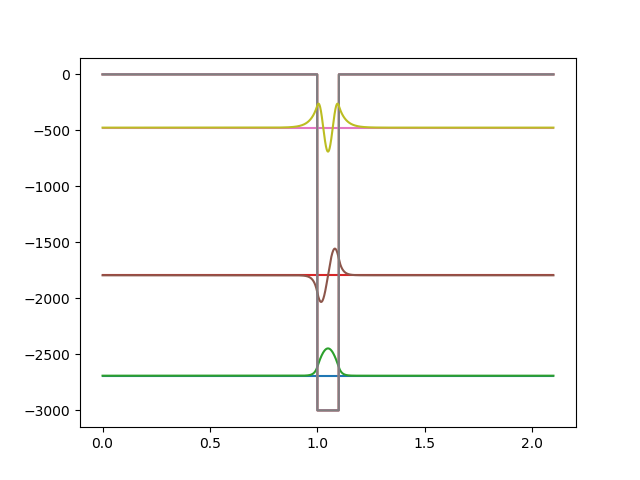
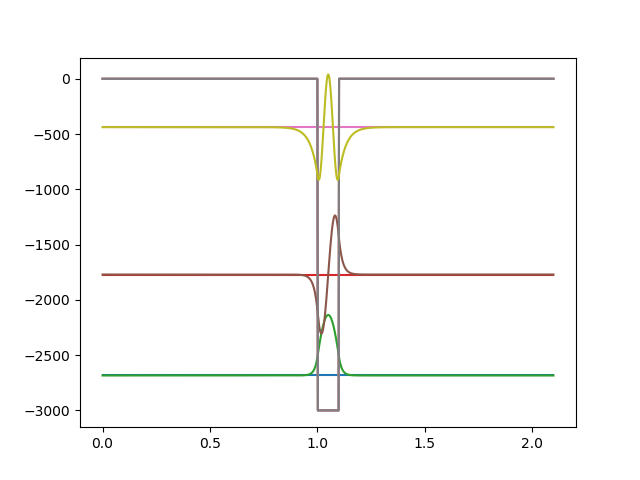
deleted some unnecessary figures, added new and uplouded to notebook to corresponding sections

diff --git a/1d_tusl.py b/1d_tusl.py
@@ -37,24 +37,15 @@ def analyze(n_w, iter_lim = 5):
 	x_vec = np.linspace(0, L, n)
 	delta_x = L / (n + 1)
 
-	#H = np.zeros([n, n])
+	#H = np.ones([n, n])
 	main_diag = np.ones(n)
 	off_diag = np.ones(n-1)
+
 	if n_w == 0:
 		V_vals = V_box(x_vec)
 
 	else:
 		V_vals = well(x_vec, w, n_w, b, L)
-
-
-
-
-
-	#H = np.zeros([n, n])
-	main_diag = np.zeros(n)
-	off_diag = np.zeros(n-1)
-
-
 
 
 	main_diag *= ((h_bar**2)/(m*(delta_x**2)))
@@ -95,7 +86,7 @@ def plot_wave_funcs(energies, wave_funcs, iter_lim, L, V_vals, n_w):
 #plot_wave_funcs(energies, wave_funcs, iter_lim, L, V_vals, n_w)
 #energies, wave_funcs, iter_lim, L, V_vals, n_w = analyze(9, 27)
 #plot_wave_funcs(energies, wave_funcs, iter_lim, L, V_vals, n_w)
-energies, wave_funcs, iter_lim, L, V_vals, n_w = analyze(1, 3)
+energies, wave_funcs, iter_lim, L, V_vals, n_w = analyze(2, 6)
 plot_wave_funcs(energies, wave_funcs, iter_lim, L, V_vals, n_w)
 
-band_widths(2, 10)
+#band_widths(2, 10)
